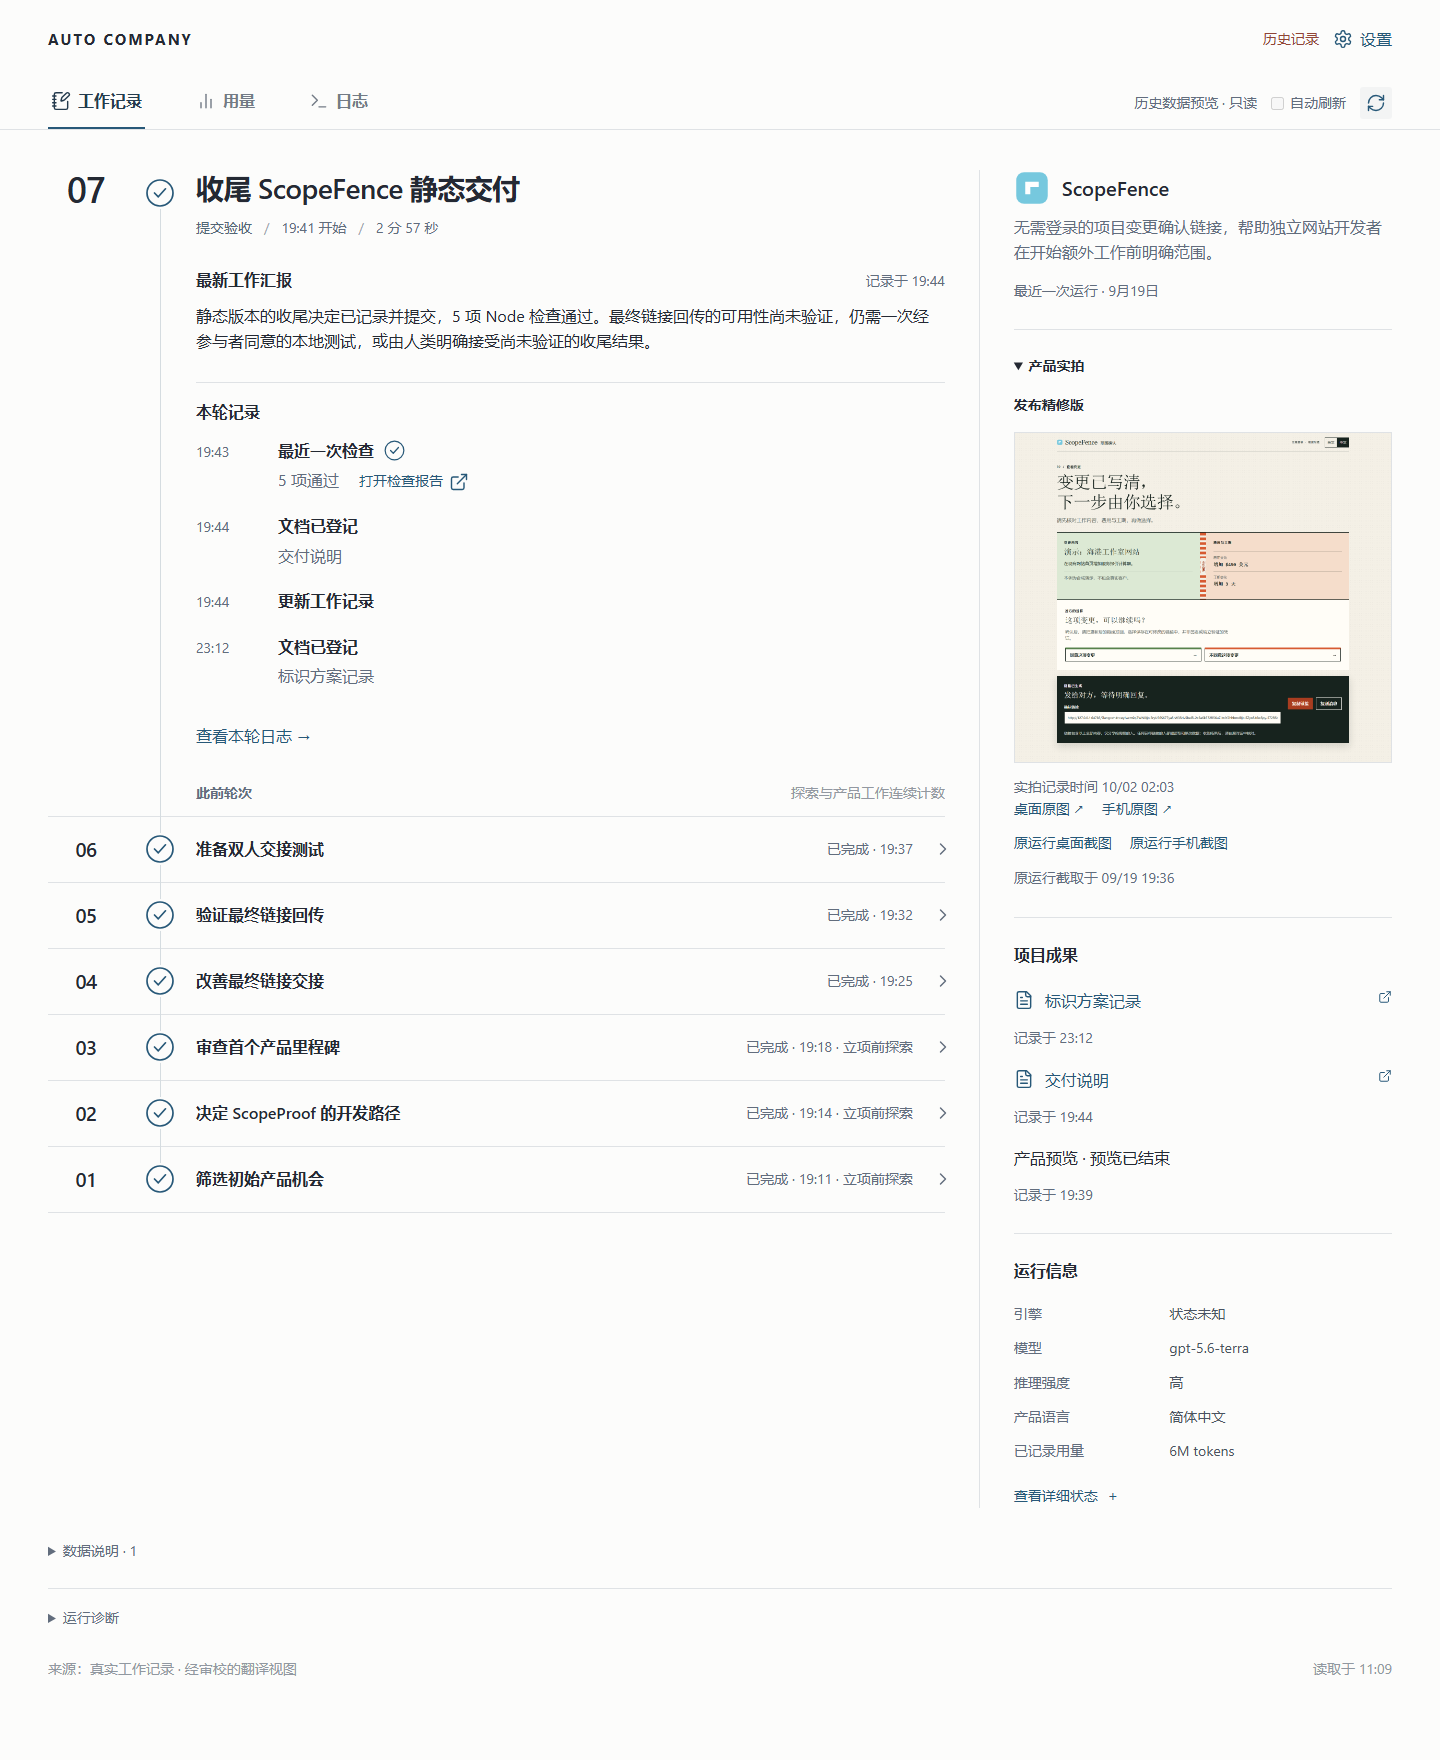
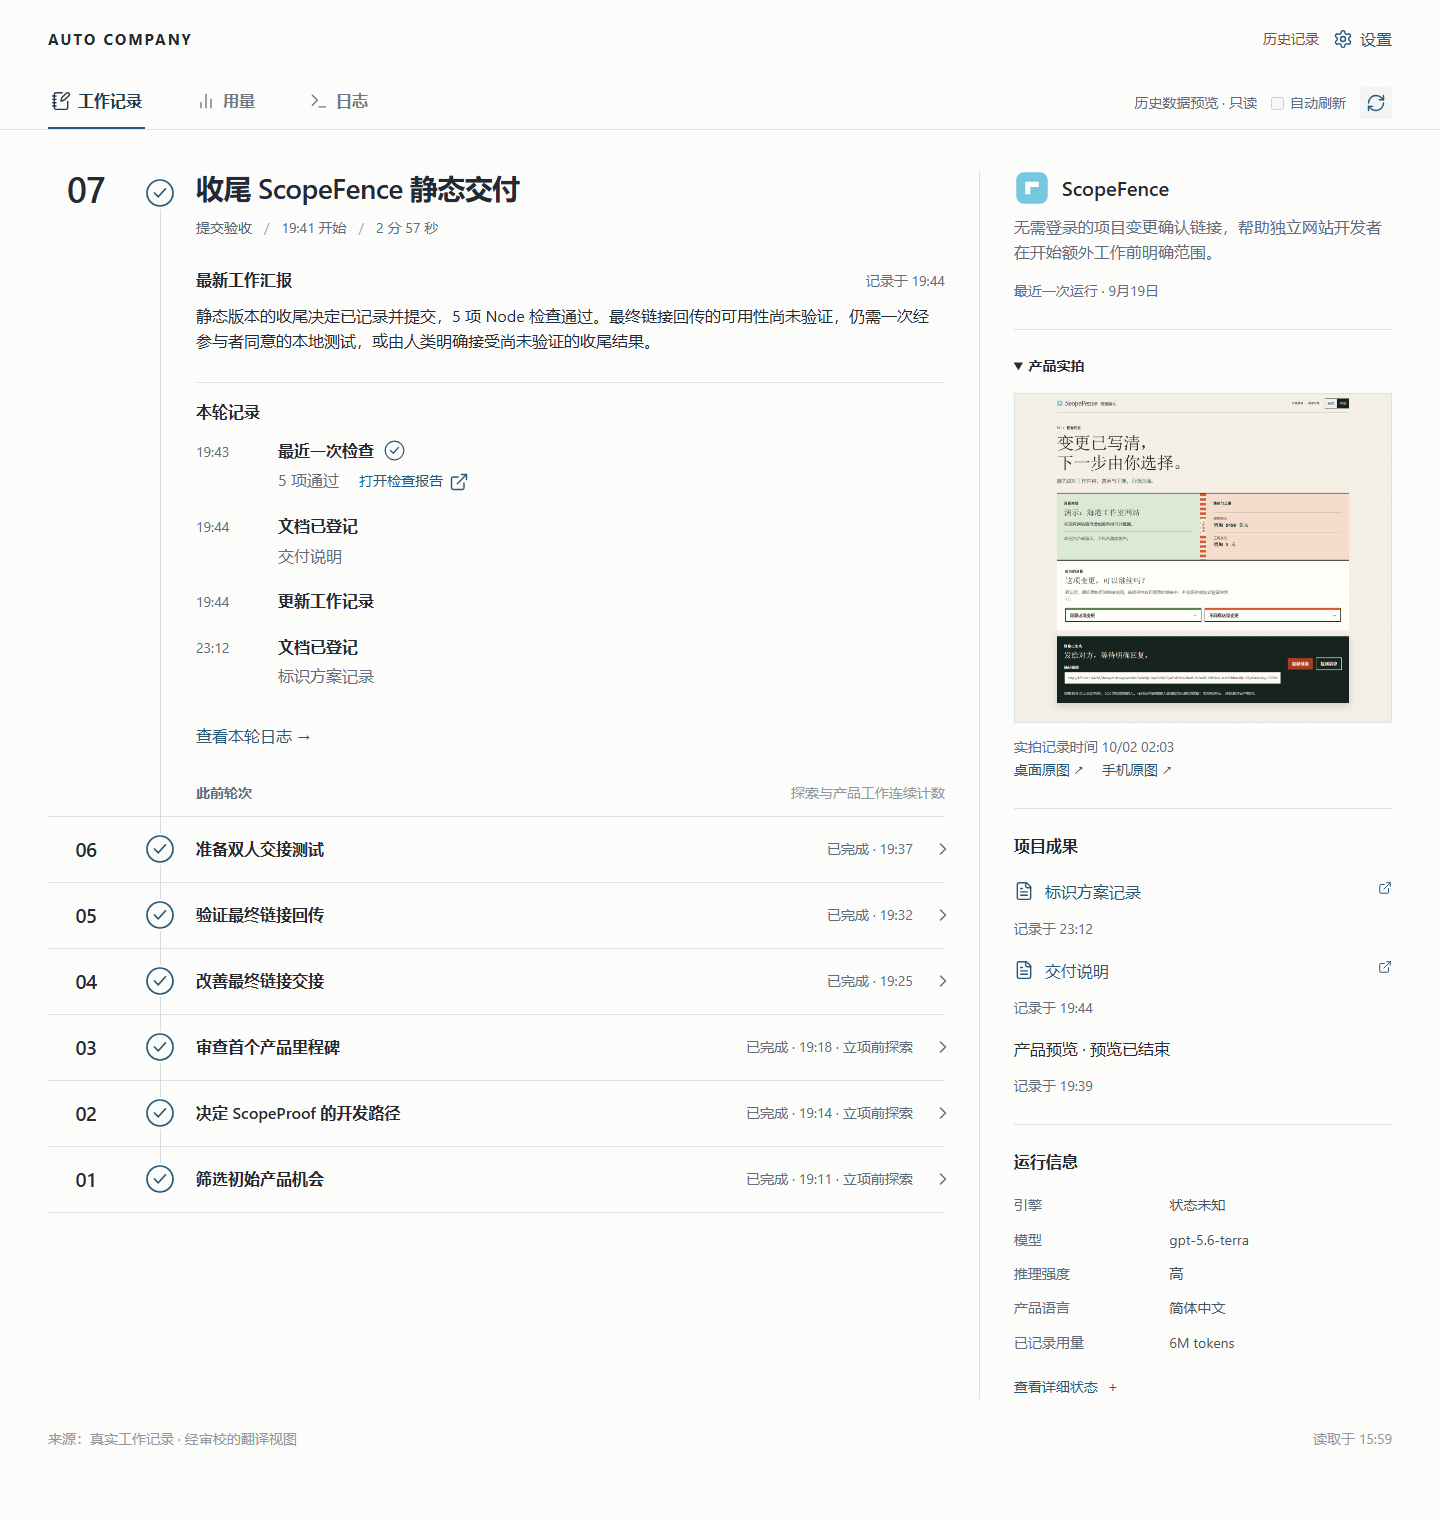
Simplify bilingual timelines and refresh README captures

diff --git a/dashboard/app.js b/dashboard/app.js
@@ -750,7 +750,6 @@
     const original = capture.latestSuccess;
     const refinement = publishedRefinement(media);
     const success = refinement || original;
-    if (refinement) section.append(element('p', 'sidebar-note refinement-label', message('publishedRefinement')));
     const variants = (success?.variants || []).filter((item) => mediaURL(item.href, media.productId));
     const desktop = variants.find((item) => item.viewport === 'desktop') || variants[0];
     if (desktop) {
@@ -788,16 +787,6 @@
         links.append(item);
       }
       section.append(links);
-      if (refinement && original) {
-        const originals = element('div', 'screenshot-links original-screenshot-links');
-        for (const variant of original.variants || []) {
-          const href = mediaURL(variant.href, media.productId);
-          if (!href) continue;
-          const item = element('a', '', message(variant.viewport === 'mobile' ? 'originalMobileScreenshot' : 'originalDesktopScreenshot'));
-          item.href = href; item.target = '_blank'; item.rel = 'noopener'; originals.append(item);
-        }
-        section.append(originals, element('p', 'sidebar-note screenshot-caption', message('originalCapturedAt', { time: formatTime(original.capturedAt, true) })));
-      }
     }
     if (!desktop || !['completed', 'ready', 'success', 'unchanged'].includes(capture.state)) {
       const key = { capturing: 'screenshotCapturing', running: 'screenshotCapturing', pending: 'screenshotCapturing',
@@ -938,14 +927,6 @@
     renderSidebar();
     renderRuntime();
     renderLanguage();
-    const notes = clear($('sourceNotes'));
-    if (data.warnings?.length) {
-      const disclosure = bindDisclosure(element('details'), 'warnings');
-      const list = element('ul');
-      data.warnings.forEach((warning) => list.append(element('li', '', clean(warning))));
-      disclosure.append(element('summary', '', `${message('warning')} · ${data.warnings.length}`), list);
-      notes.append(disclosure);
-    }
     $('sourceName').textContent = message('sourceLabel', { name: data.sourceName || 'Auto Company' });
     if (!$('usageDate').value) $('usageDate').value = datePart(data.cycles.find((cycle) => !cycle.active)?.endedAt) || new Date().toISOString().slice(0, 10);
     renderUsage();

diff --git a/dashboard/i18n.js b/dashboard/i18n.js
@@ -12,11 +12,7 @@ window.JOURNAL_MESSAGES = {
     "openScreenshot": "查看产品截图原图",
     "screenshotAlt": "{name} 的实际页面截图",
     "capturedAt": "截取于 {time}",
-    "publishedRefinement": "发布精修版",
     "captureSessionAt": "实拍记录时间 {time}",
-    "originalCapturedAt": "原运行截取于 {time}",
-    "originalDesktopScreenshot": "原运行桌面截图",
-    "originalMobileScreenshot": "原运行手机截图",
     "desktopScreenshot": "桌面原图 ↗",
     "mobileScreenshot": "手机原图 ↗",
     "screenshotOldVersion": "来自上一版本",
@@ -215,7 +211,6 @@ window.JOURNAL_MESSAGES = {
     "recoveredEnd": "结束时间为恢复记录，未计算耗时",
     "startAt": "{time} 开始",
     "endAt": "{time} 结束",
-    "warning": "数据说明",
     "archived": "历史运行",
     "noProject": "尚未确定项目",
     "sourceLabel": "来源：{name}",
@@ -380,11 +375,7 @@ window.JOURNAL_MESSAGES = {
     "openScreenshot": "Open the original product screenshot",
     "screenshotAlt": "Actual page captured from {name}",
     "capturedAt": "Captured {time}",
-    "publishedRefinement": "Published refinement",
     "captureSessionAt": "Capture session {time}",
-    "originalCapturedAt": "Original run captured {time}",
-    "originalDesktopScreenshot": "Original desktop capture",
-    "originalMobileScreenshot": "Original mobile capture",
     "desktopScreenshot": "Desktop image ↗",
     "mobileScreenshot": "Mobile image ↗",
     "screenshotOldVersion": "From an earlier version",
@@ -583,7 +574,6 @@ window.JOURNAL_MESSAGES = {
     "recoveredEnd": "End time is a recovery record; duration is not calculated",
     "startAt": "Started {time}",
     "endAt": "Ended {time}",
-    "warning": "About this data",
     "archived": "Archived run",
     "noProject": "Project not selected",
     "sourceLabel": "Source: {name}",

diff --git a/dashboard/styles.css b/dashboard/styles.css
@@ -660,26 +660,6 @@ button:focus:not(:focus-visible), main:focus {
   margin-top: 15px;
 }
 
-.source-notes {
-  font-size: var(--text-caption);
-  line-height: 1.8;
-  color: var(--muted);
-  max-width: 960px;
-  margin-top: 30px;
-}
-
-.source-notes details {
-  margin-bottom: 10px;
-}
-
-.source-notes summary {
-  cursor: pointer;
-}
-
-.source-notes ul {
-  padding-left: 18px;
-}
-
 .page-footer {
   display: flex;
   justify-content: space-between;
@@ -1303,9 +1283,6 @@ dialog .runtime-details {
   .artifact-link {
     font-size: var(--text-body);
   }
-  .source-notes {
-    margin-top: 22px;
-  }
   .page-footer {
     padding-top: 25px;
     flex-wrap: wrap;
@@ -1715,8 +1692,6 @@ dialog .runtime-details {
 .screenshot-caption { display: flex; flex-wrap: wrap; gap: 4px 10px; }
 .screenshot-stale { color: #7d7568; }
 .screenshot-links { display: flex; flex-wrap: wrap; gap: 8px 18px; font-size: var(--text-caption); }
-.original-screenshot-links { margin-top: 12px; }
-.refinement-label { color: var(--ink); font-weight: var(--weight-medium); }
 .screenshot-retry { margin-top: 13px; font-size: var(--text-caption); }
 .artifact-link .ui-icon { margin-top: 3px; }
 .artifact-link .artifact-arrow { width: 14px; height: 14px; flex-basis: 14px; padding: 0; }

diff --git a/dashboard/index.html b/dashboard/index.html
@@ -68,7 +68,6 @@
             <div id="historyList"></div>
           </section>
         </div>
-        <div id="sourceNotes" class="source-notes"></div>
       </section>
       <section id="panel-usage" class="workspace-panel secondary-panel" role="tabpanel" aria-labelledby="tab-usage" hidden>
         <div class="panel-heading">
@@ -126,12 +125,12 @@
         </div>
         <p id="logStatus" class="muted" role="status"></p>
         <pre id="logText" class="log-text" tabindex="0"></pre>
+        <details id="runtimeDiagnostics" class="runtime-diagnostics">
+          <summary data-i18n="diagnostics">运行诊断</summary>
+          <div id="diagnosticSummary"></div>
+          <pre id="rawText" class="log-text" tabindex="0"></pre>
+        </details>
       </section>
-      <details id="runtimeDiagnostics" class="runtime-diagnostics">
-        <summary data-i18n="diagnostics">运行诊断</summary>
-        <div id="diagnosticSummary"></div>
-        <pre id="rawText" class="log-text" tabindex="0"></pre>
-      </details>
       <footer class="page-footer">
         <span id="sourceName"></span>
         <span id="refreshStatus" role="status"></span>

diff --git a/presentation/showcase/README.md b/presentation/showcase/README.md
@@ -20,9 +20,9 @@ The [English and Chinese overlays](translations/) translate presentation text on
 
 [中英文语言层](translations/)只翻译展示文字。预览服务在提供页面前校验每份原报告的哈希与完整轮次覆盖；报告改变或轮次缺失会使校验失败。经审校的视图不能替代原始事实。轮次完成不代表产品交付、客户采用、收入或付费验证。本轮人工指导的界面精修和翻译**不增加历史轮次**；图检单仍是免费本地工具，原记录中停止独立付费产品投入的结论保留。
 
-The expanded **Published refinement / 发布精修版** is a separate, language-matched display of the previously reviewed real product screenshots in [presentation/products](../products/). The [refinement metadata](refinements/) preserves their original digests, product-copy source and actual capture-session observation; exact per-image capture times are included where they were recorded. This display does not replace `latestSuccess` or any original run media. Original desktop and mobile images retain independent links and their original capture time. Desktop and mobile use the corresponding reviewed viewport image. A refinement with a different display language is never substituted.
+The expanded product screenshot is a language-matched display of the previously reviewed real product screenshots in [presentation/products](../products/). The [refinement metadata](refinements/) preserves their original digests, product-copy source and actual capture-session observation; exact per-image capture times are included where they were recorded. This display does not replace `latestSuccess` or any original run media. Original desktop and mobile image references and capture times remain in the manifest and API; provenance labels are omitted from the timeline. Desktop and mobile use the corresponding reviewed viewport image. A refinement with a different display language is never substituted.
 
-默认展开的**发布精修版**独立展示 [presentation/products](../products/) 中已审过的同语言真实产品实拍。[精修来源元数据](refinements/)保留原哈希、产品副本来源及当时实拍记录时间；已有逐图精确时间的保留精确时间。该展示层不替换 `latestSuccess` 或任何原运行媒体，原桌面与手机截图保留独立链接和原捕获时间。桌面与手机分别使用对应视口的已审图片；不同于当前展示语言的精修图不会替代原图。
+默认展开的产品实拍展示 [presentation/products](../products/) 中已审过的同语言真实产品实拍。[精修来源元数据](refinements/)保留原哈希、产品副本来源及当时实拍记录时间；已有逐图精确时间的保留精确时间。该展示层不替换 `latestSuccess` 或任何原运行媒体，原桌面与手机截图的引用和捕获时间保留在清单与 API 中，时间轴不再显示来源标签。桌面与手机分别使用对应视口的已审图片；不同于当前展示语言的精修图不会替代原图。
 
 ## Capture / 捕获
 
@@ -30,9 +30,9 @@ The expanded **Published refinement / 发布精修版** is a separate, language-
 
 捕获脚本读取真实本机只读页面与 API，校验原身份、时间顺序、状态、报告哈希及捕获前后不变的轮次清单；等待字体和可见图片加载，并检查混语、文字截断、图片失败与横向溢出。没有请求模拟、记录注入、界面隐藏或像素编辑，最终六视图均通过检查。
 
-Desktop width is 1440 px; height follows actual content through the complete footer. Mobile viewport is 390 × 844 px, with a separate native full-page capture. This set was captured with Windows Chromium build 1243, Playwright 1.63.0 and device scale 1. Rendered font inspection confirmed Segoe UI for English and Microsoft YaHei for Chinese. Capture times in the index are UTC; the visible journal uses its recorded local times. Runtime state, historical checks and limitations are shown as recorded, without inventing new results.
+Desktop width is 1440 px; height follows actual content through the complete footer. Mobile viewport is 390 × 844 px, with a separate native full-page capture. This set was captured with Windows Chromium build 1243, Playwright 1.63.0 and device scale 1. Rendered font inspection confirmed Segoe UI for English and Microsoft YaHei for Chinese. Capture times in the index are UTC; the visible journal uses its recorded local times. Runtime state, historical checks and report limitations remain as recorded. Runtime diagnostics are available in the Log tab; the former data-notes disclosure is removed.
 
-桌面宽 1440 像素，高度按真实内容扩至完整页脚；手机视口为 390 × 844，另保留浏览器原生完整页面截图。本组使用 Windows Chromium 1243、Playwright 1.63.0、像素比例 1；实际渲染字体检查确认英文为 Segoe UI、中文为微软雅黑。清单捕获时间使用 UTC，界面时间来自原记录。运行状态、历史检查与限制按记录展示，不补造结果。
+桌面宽 1440 像素，高度按真实内容扩至完整页脚；手机视口为 390 × 844，另保留浏览器原生完整页面截图。本组使用 Windows Chromium 1243、Playwright 1.63.0、像素比例 1；实际渲染字体检查确认英文为 Segoe UI、中文为微软雅黑。清单捕获时间使用 UTC，界面时间来自原记录。运行状态、历史检查与报告中的限制按记录展示。运行诊断移入日志页，原数据说明折叠区已移除。
 
 ## Reproduction / 复现
 

diff --git a/README.md b/README.md
@@ -23,20 +23,18 @@ Optional Cursor and OpenAI-compatible adapters require explicit configuration. S
 
 ## Dashboard and Product Preview
 
-[![ScopeFence · seven continuous work cycles](presentation/showcase/scopefence-timeline-en.png)](presentation/showcase/scopefence-timeline-en.png)
+[![ScopeFence · work timeline](presentation/showcase/scopefence-timeline-en.png)](presentation/showcase/scopefence-timeline-en.png)
 
-ScopeFence across **7 real completed cycles: 3 exploration + 4 product cycles**. Exploration, delivery and later work share one continuous timeline, with original identities, timestamps, checks and logs preserved.
-
-The timeline uses a reviewed English presentation overlay, with product screenshots expanded by default. The labeled **Published refinement** shows the reviewed English product copy; the original run captures remain linked separately. These changes do not add historical cycles or establish paid demand. Open an image at full size; see [capture provenance and reproduction](presentation/showcase/README.md).
+Click an image to view it at full size. [Capture sources and reproduction](presentation/showcase/README.md).
 
 <table>
-<tr><th colspan="2"><a href="examples/scopefence/">ScopeFence</a> · 7 · 3 exploration + 4 product</th></tr>
+<tr><th colspan="2"><a href="examples/scopefence/">ScopeFence</a></th></tr>
 <tr><td colspan="2">Communicate scope, price and schedule changes through an editable decision link.</td></tr>
 <tr><td width="50%" valign="top"><a href="presentation/products/scopefence-en-result.png"><img src="presentation/products/scopefence-en-result.png" alt="ScopeFence · product interface" width="100%" /></a></td><td width="50%" valign="top"><a href="presentation/showcase/scopefence-timeline-en.png"><img src="presentation/showcase/scopefence-timeline-en.png" alt="ScopeFence · recorded work timeline" width="100%" /></a></td></tr>
-<tr><th colspan="2"><a href="examples/tujiandan/">Image Checklist</a> · 5 · 3 exploration + 2 product</th></tr>
+<tr><th colspan="2"><a href="examples/tujiandan/">Image Checklist</a></th></tr>
 <tr><td colspan="2">Review image dimensions, size, format and names locally, then export a checklist.</td></tr>
 <tr><td width="50%" valign="top"><a href="presentation/products/tujiandan-en.png"><img src="presentation/products/tujiandan-en.png" alt="Image Checklist · product interface" width="100%" /></a></td><td width="50%" valign="top"><a href="presentation/showcase/tujiandan-timeline-en.png"><img src="presentation/showcase/tujiandan-timeline-en.png" alt="Image Checklist · recorded work timeline" width="100%" /></a></td></tr>
-<tr><th colspan="2"><a href="examples/coi-chase-desk/">COI Chase Desk</a> · 5 · 3 exploration + 2 product</th></tr>
+<tr><th colspan="2"><a href="examples/coi-chase-desk/">COI Chase Desk</a></th></tr>
 <tr><td colspan="2">Record follow-ups and document receipts, review the history and export session records.</td></tr>
 <tr><td width="50%" valign="top"><a href="presentation/products/coi-chase-desk-en-full.png"><img src="presentation/products/coi-chase-desk-en-full.png" alt="COI Chase Desk · product interface" width="100%" /></a></td><td width="50%" valign="top"><a href="presentation/showcase/coi-chase-desk-timeline-en.png"><img src="presentation/showcase/coi-chase-desk-timeline-en.png" alt="COI Chase Desk · recorded work timeline" width="100%" /></a></td></tr>
 </table>

diff --git a/README-ZH.md b/README-ZH.md
@@ -23,20 +23,18 @@
 
 ## 看板与产品实拍
 
-[![ScopeFence · 七轮连续工作记录](presentation/showcase/scopefence-timeline-zh-CN.png)](presentation/showcase/scopefence-timeline-zh-CN.png)
+[![ScopeFence · 工作时间轴](presentation/showcase/scopefence-timeline-zh-CN.png)](presentation/showcase/scopefence-timeline-zh-CN.png)
 
-ScopeFence 的 **7 个真实完成轮次：3 轮探索 + 4 轮产品工作**。探索、交付与后续工作在同一条时间轴中连续显示，原有身份、时间、检查与日志保持不变。
-
-时间轴使用经审校的中文翻译视图，产品实拍默认展开。标明**发布精修版**的图片来自已审校的中文产品副本；原运行截图保留独立查看入口。这些修复不增加历史轮次，也不代表已验证付费需求。点击图片查看原尺寸；[截图来源与复现](presentation/showcase/README.md)。
+点击图片查看原尺寸。[截图来源与复现](presentation/showcase/README.md)。
 
 <table>
-<tr><th colspan="2"><a href="examples/scopefence/">范围确认单</a> · 7 轮 · 3 探索 + 4 产品</th></tr>
+<tr><th colspan="2"><a href="examples/scopefence/">范围确认单</a></th></tr>
 <tr><td colspan="2">把范围、费用和交期变化整理成可返回的确认链接。</td></tr>
 <tr><td width="50%" valign="top"><a href="presentation/products/scopefence-zh-result.png"><img src="presentation/products/scopefence-zh-result.png" alt="范围确认单 · 产品页面" width="100%" /></a></td><td width="50%" valign="top"><a href="presentation/showcase/scopefence-timeline-zh-CN.png"><img src="presentation/showcase/scopefence-timeline-zh-CN.png" alt="范围确认单 · 真实工作时间轴" width="100%" /></a></td></tr>
-<tr><th colspan="2"><a href="examples/tujiandan/">图检单</a> · 5 轮 · 3 探索 + 2 产品</th></tr>
+<tr><th colspan="2"><a href="examples/tujiandan/">图检单</a></th></tr>
 <tr><td colspan="2">在本地核对图片尺寸、体积、格式和文件名，导出检查单。</td></tr>
 <tr><td width="50%" valign="top"><a href="presentation/products/tujiandan-zh.png"><img src="presentation/products/tujiandan-zh.png" alt="图检单 · 产品页面" width="100%" /></a></td><td width="50%" valign="top"><a href="presentation/showcase/tujiandan-timeline-zh-CN.png"><img src="presentation/showcase/tujiandan-timeline-zh-CN.png" alt="图检单 · 真实工作时间轴" width="100%" /></a></td></tr>
-<tr><th colspan="2"><a href="examples/coi-chase-desk/">保单跟进台</a> · 5 轮 · 3 探索 + 2 产品</th></tr>
+<tr><th colspan="2"><a href="examples/coi-chase-desk/">保单跟进台</a></th></tr>
 <tr><td colspan="2">记录追催和资料收件，查看过程并导出本次工作记录。</td></tr>
 <tr><td width="50%" valign="top"><a href="presentation/products/coi-chase-desk-zh-full.png"><img src="presentation/products/coi-chase-desk-zh-full.png" alt="保单跟进台 · 产品页面" width="100%" /></a></td><td width="50%" valign="top"><a href="presentation/showcase/coi-chase-desk-timeline-zh-CN.png"><img src="presentation/showcase/coi-chase-desk-timeline-zh-CN.png" alt="保单跟进台 · 真实工作时间轴" width="100%" /></a></td></tr>
 </table>
